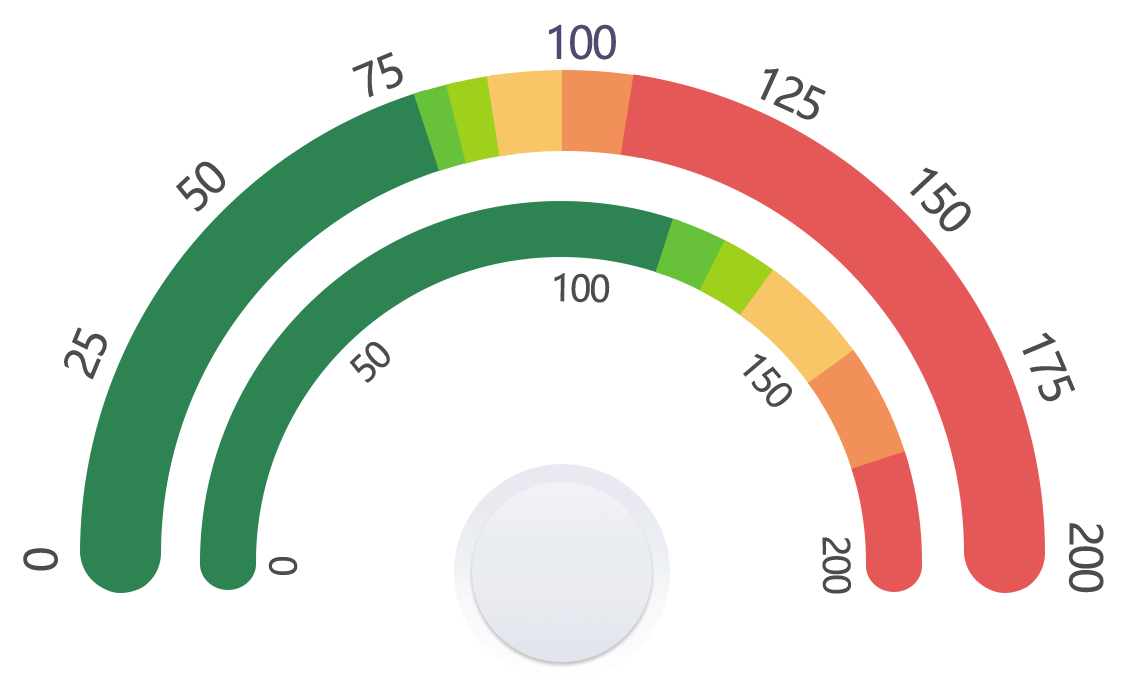
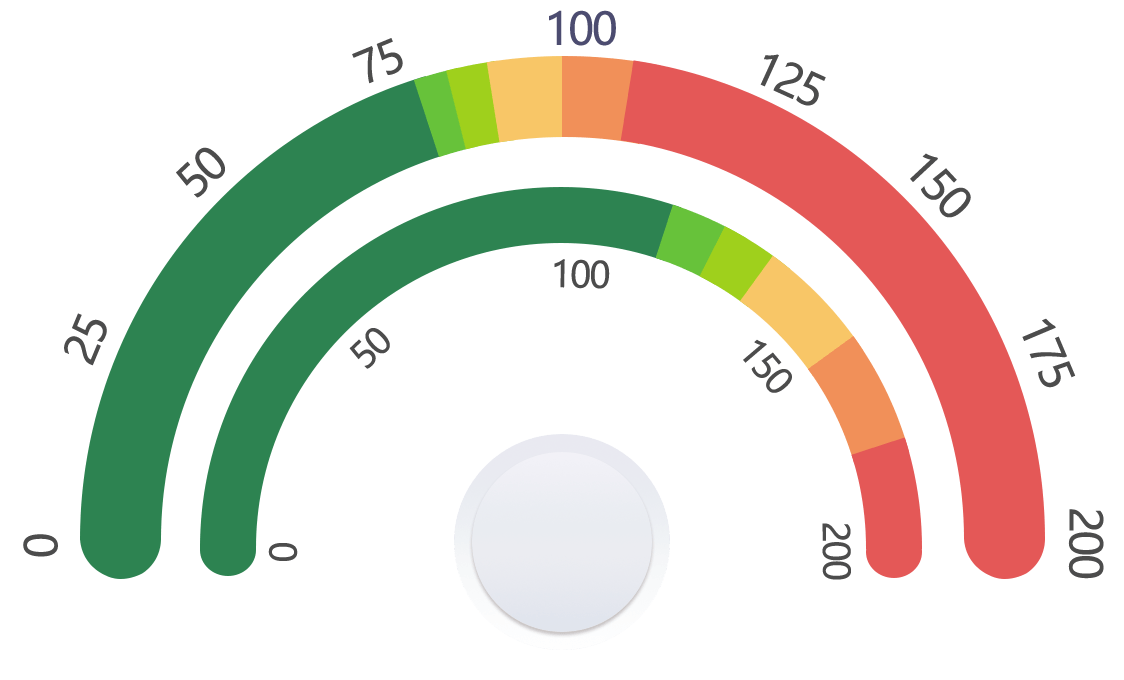
修改表盘组件

diff --git a/components/health/dashboard/board.js b/components/health/dashboard/board.js
@@ -6,7 +6,7 @@ const animation = wx.createAnimation({
   duration: 200,
   timingFunction: 'ease-out',
   delay: 0,
-  transformOrigin: '90% center' //左右，上下
+  transformOrigin: '94% center' //指针旋转中心位置，左右，上下
 })
 
 Component({
@@ -37,13 +37,13 @@ Component({
       type: String,
       value: "/images/health/pointer2.png"
     },
-    width: { //宽
+    width: { //宽 宽/高=1.65
       type: Number,
       value: 750
     },
-    height: { //高
+    height: { //高 宽/高=1.65
       type: Number,
-      value: 400
+      value: 455
     },
   },
   data: {
